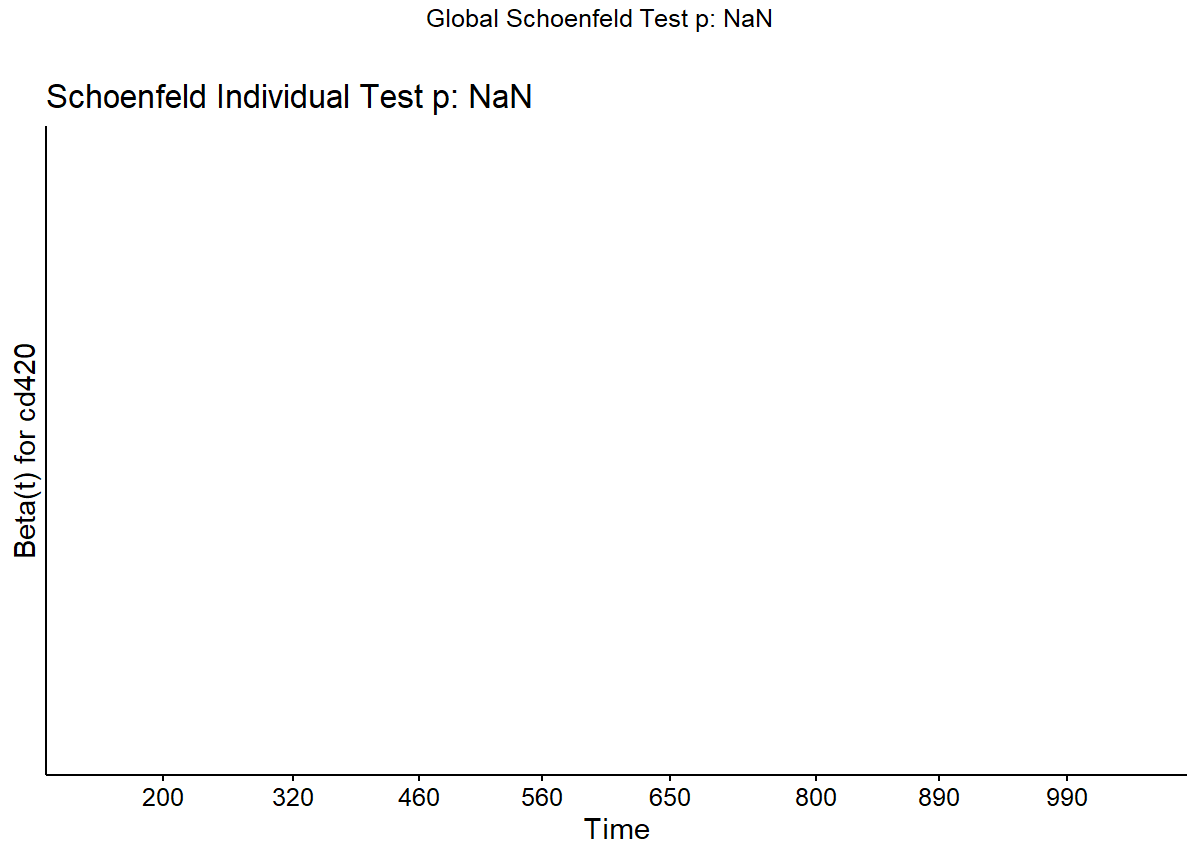
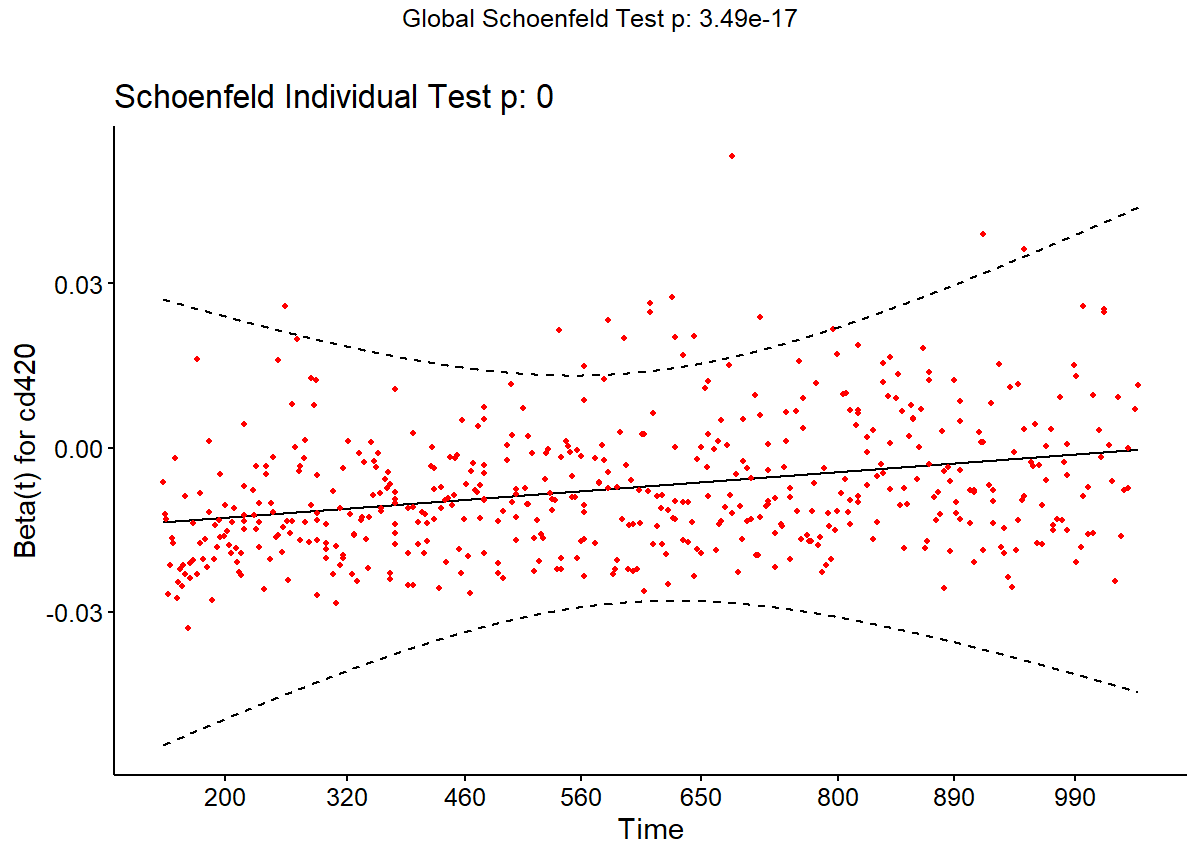
analysis verision1.2

diff --git a/Analysis.md b/Analysis.md
@@ -612,8 +612,9 @@ From the regression summary above, we can see that except
 and interaction with time.
 
 ``` r
+aids_fit<-coxph(Surv(time, cid) ~ ., data_fit)
 # residual
-ggcoxzph(cox.zph(aids_interaction_fit), var = c("cd420"), df = 2, nsmo = 1000)
+ggcoxzph(cox.zph(aids_fit), var = c("cd420"), df = 2, nsmo = 1000)
 ```
 
 <img src="Analysis_files/figure-gfm/unnamed-chunk-4-1.png" style="display: block; margin: auto;" />
@@ -625,7 +626,7 @@ doesn’t meet the PH assumption.
 
 ``` r
 # ggsave("ph_checking_4.png", width = 6, height = 4)
-ggcoxzph(cox.zph(aids_interaction_fit), var = c("cd820"), df = 2, nsmo = 1000)
+ggcoxzph(cox.zph(aids_fit), var = c("cd820"), df = 2, nsmo = 1000)
 ```
 
 <img src="Analysis_files/figure-gfm/unnamed-chunk-5-1.png" style="display: block; margin: auto;" />
@@ -684,7 +685,14 @@ library(eha)
 #backward selection, significance level = 0.05
 fit_ph1 = eha::phreg(Surv(time, cid==1) ~ .,
                 data = data_fit, dist = "weibull")
-summary(fit_ph1)
+summary(fit_ph1)|>
+  kable("latex", 
+        digits = 4, 
+        escape = F, 
+        booktabs = T, 
+caption = "Weibull (Parametric) PH Model Fitting") |>
+  kable_styling(position = "center", 
+                latex_options = "hold_position")
 # it can be our final model
 
 
@@ -692,6 +700,8 @@ summary(fit_ph1)
 fit_cox =eha::coxreg(Surv(time, cid==1) ~ ., data = data_fit)
 eha::check.dist(fit_ph1, fit_cox)
 ```
+
+![](Weibull_Result.png)
 
 The fit of the Weibull baseline function is very close to the
 non-parametric one.
